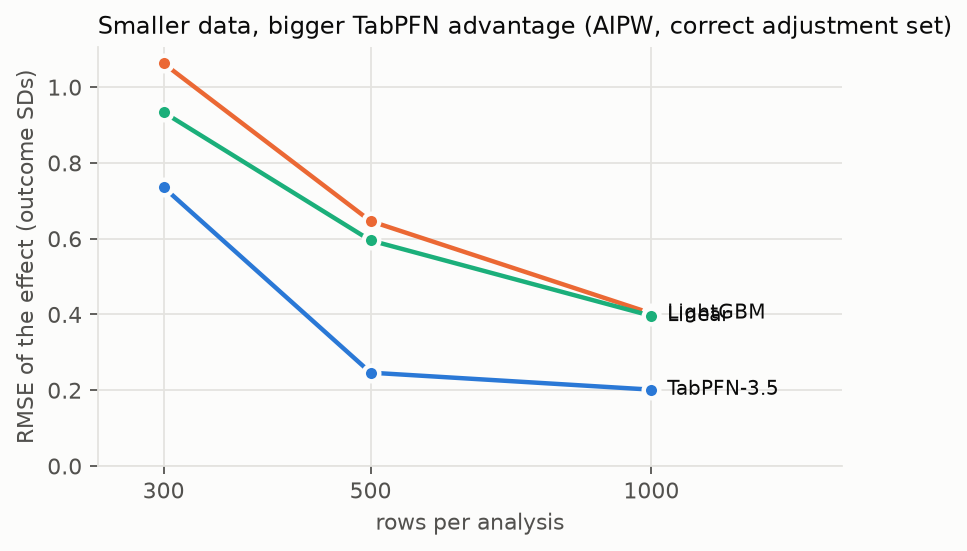
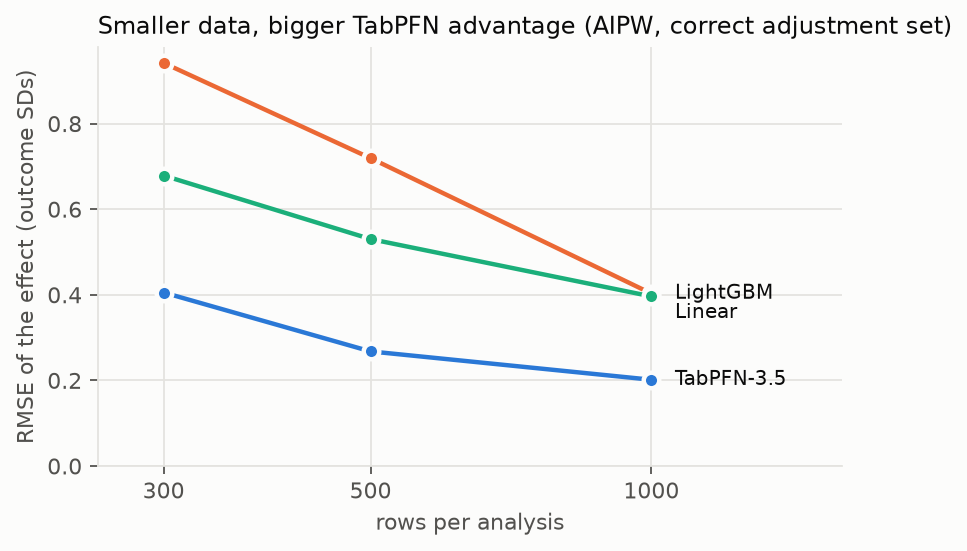
Fix figures.py syntax error; regenerate figures (falsification: n=2000 only, matched false-alarm panel)

Changed region(s): [[0.031, 0.1234, 0.8687, 0.6171], [0.031, 0.6171, 0.8687, 0.7405]]

diff --git a/src/causalaudit/figures.py b/src/causalaudit/figures.py
@@ -109,10 +109,15 @@ def fig_small_n():
     d["err_sd"] = (d.ate - d.truth) / d.scene.map(sd)
     g = d.groupby(["learner", "n"]).err_sd.apply(lambda e: np.sqrt((e ** 2).mean())).unstack("learner")
     fig, ax = plt.subplots(figsize=(6, 3.4))
+    ends = sorted(((g[l].iloc[-1], l) for l in LEARNER if l in g), reverse=True)
+    label_y, prev = {}, None
+    for v, l in ends:  # push end labels apart when lines finish close together
+        y = v if prev is None else min(v, prev - 0.045)
+        label_y[l], prev = y, y
     for l, (lab, col) in LEARNER.items():
         if l in g:
             ax.plot(g.index, g[l], color=col, lw=2, marker="o", ms=7, mec=SURFACE, mew=2)
-            ax.text(g.index[-1] * 1.04, g[l].iloc[-1], lab, color=INK, va="center", fontsize=9)
+            ax.text(g.index[-1] * 1.06, label_y[l], lab, color=INK, va="center", fontsize=9)
     ax.set_xscale("log")
     ax.set_xticks(g.index, [str(i) for i in g.index])
     ax.minorticks_off()
@@ -124,24 +129,22 @@ def fig_small_n():
     fig.savefig(OUT / "fig_small_n.png", dpi=160, bbox_inches="tight")
 
 
-def fig_falsification():
+def fig_falsification(n: int = 2000):
     from .analyze import claim_kinds
 
     p = OUT / "e2_falsification.jsonl"
     if not p.exists():
         return
     d = _read("e2_falsification.jsonl")
+    d = d[d.n == n].copy()
     d["kind"] = claim_kinds(d)
     n_equiv = d[d.kind.str.contains("equivalent")].groupby(["scene", "claim"]).ngroups
     d = d[d.testable]
-    kinds = [("true claim", "true claims
-(false alarms ↓)"),
-             ("wrong: ignores hidden confounding (detectable)", "wrong: ignores hidden
-confounding (caught ↑)"),
-             ("wrong: reversed edge at treatment (detectable)", "wrong: reversed edge
-at treatment (caught ↑)")]
+    kinds = [("true claim", "true claims\n(false alarms ↓)"),
+             ("wrong: ignores hidden confounding (detectable)", "wrong: ignores hidden\nconfounding (caught ↑)"),
+             ("wrong: reversed edge at treatment (detectable)", "wrong: reversed edge\nat treatment (caught ↑)")]
     methods = [("tabpfn_crt", "TabPFN-3.5 CRT", BLUE), ("partial_corr", "linear partial correlation", ORANGE)]
-    fig, ax = plt.subplots(figsize=(8, 3.6))
+    fig, (ax, ax2) = plt.subplots(1, 2, figsize=(12.5, 3.8), gridspec_kw={"width_ratios": [3, 2], "wspace": 0.25})
     x = np.arange(len(kinds))
     w = 0.36
     for i, (m, lab, col) in enumerate(methods):
@@ -165,8 +168,24 @@ at treatment (caught ↑)")]
     ax.set_ylabel("claims rejected")
     ax.grid(axis="x", visible=False)
     ax.legend(frameon=False, loc="upper left", fontsize=9)
-    ax.set_title("Testing each claim's implied independencies (Holm, α = 0.05; scene-clustered 95% CIs)",
-                 loc="left", fontsize=11)
+    ax.set_title(f"A · Rejection rates at α = 0.05 (Holm; n = {n}; scene-clustered 95% CIs)", loc="left", fontsize=11)
+    # Panel B: detection at an equal false-alarm rate (threshold set so <= 5% of TRUE claims are rejected)
+    from .analyze import matched_power
+    mp = matched_power()
+    mp = mp[mp.n == n]
+    kinds2 = kinds[1:]
+    x2 = np.arange(len(kinds2))
+    for i, (m, lab, col) in enumerate(methods):
+        vals = [mp[(mp.method == m) & (mp.claim == k)]["detection at matched false-alarm rate"].mean() for k, _ in kinds2]
+        xs = x2 + (i - 0.5) * w
+        ax2.bar(xs, vals, width=w, color=col, edgecolor=SURFACE, linewidth=2)
+        for xi, v in zip(xs, vals):
+            ax2.text(xi, v + 0.04, f"{v:.0%}", ha="center", fontsize=9, color=INK)
+    ax2.set_xticks(x2, [k[1].replace(" (caught ↑)", "") for k in kinds2])
+    ax2.set_ylim(0, 1.18)
+    ax2.yaxis.set_major_formatter(PercentFormatter(1.0, decimals=0))
+    ax2.grid(axis="x", visible=False)
+    ax2.set_title("B · Wrong claims caught at an equal false-alarm rate (≤ 5%)", loc="left", fontsize=11)
     fig.text(0.01, -0.04, f"Not shown: {n_equiv} wrong claims are Markov-equivalent to the truth on the tested "
              "independencies — no test can detect them; the audit reports such assumptions as untestable.",
              fontsize=8, color=INK2)
